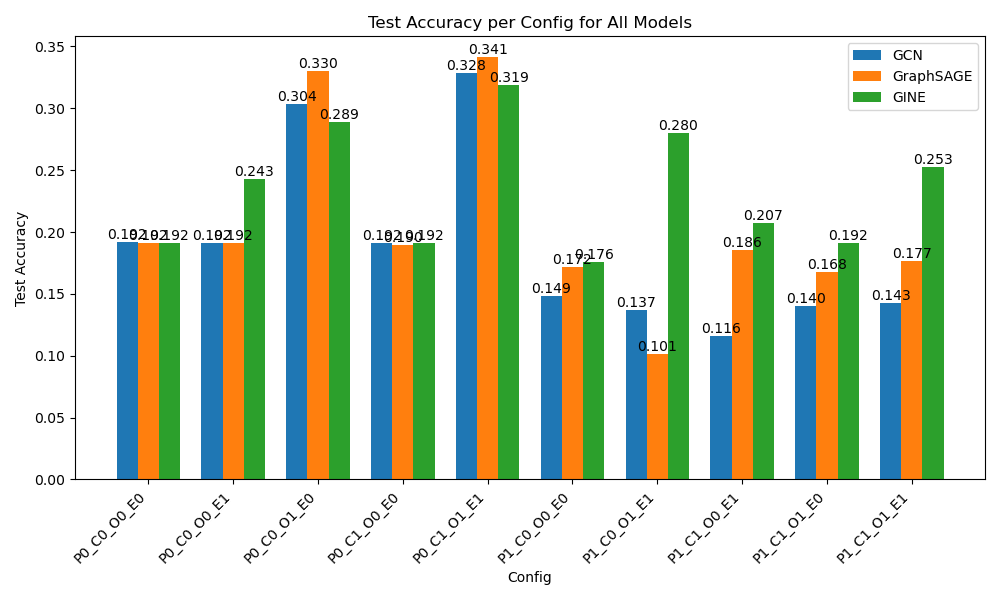
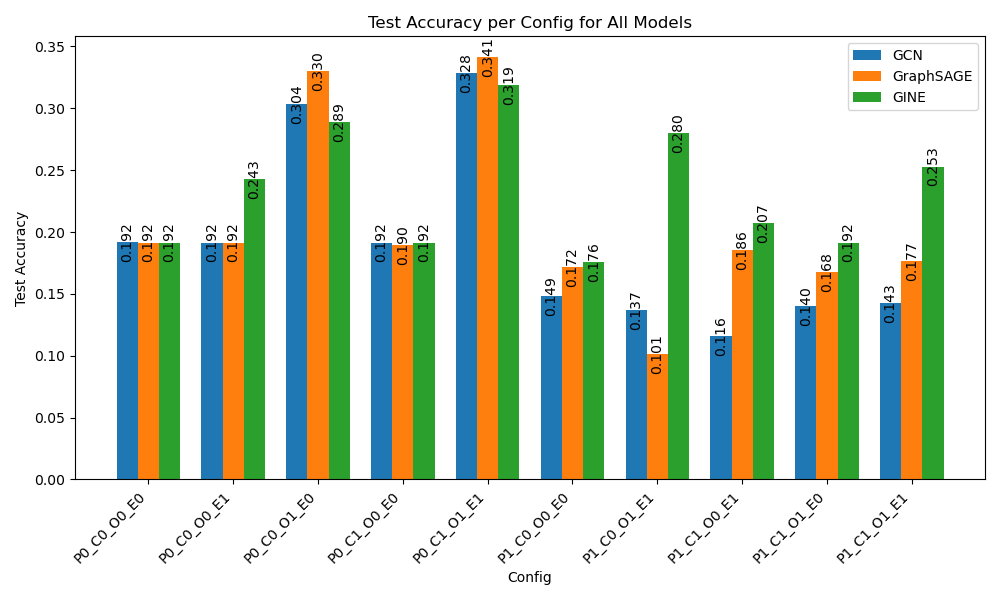
update acc

diff --git a/ablation_study_plot.py b/ablation_study_plot.py
@@ -122,7 +122,8 @@ for bar in list(bars_gcn) + list(bars_sage) + list(bars_gine):
         height,
         f'{height:.3f}',
         ha='center',
-        va='bottom'
+        va='center',
+        rotation=90
     )
 
 
